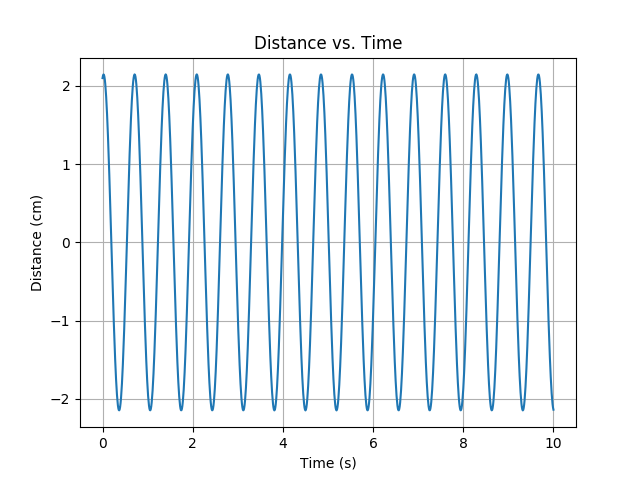
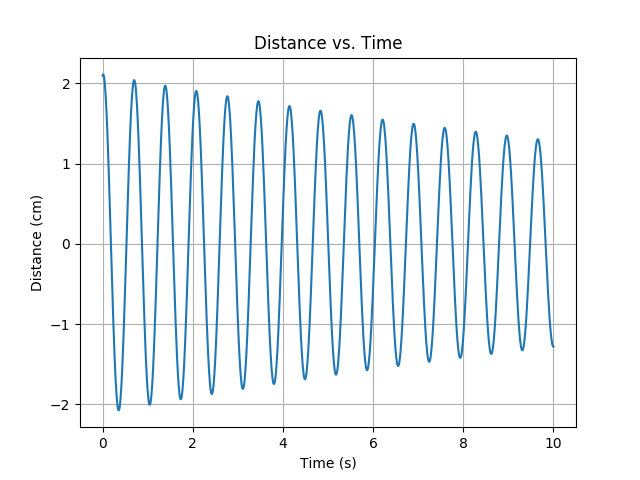
Changed Main.py file to PyLab1.py and added Velocity, Distance, and Energy vs. Time graphs for the damped system.

Changed region(s): [[0.0625, 0.1562, 0.9062, 0.8438]]

diff --git a/PyLab1.py b/PyLab1.py
@@ -1,0 +1,188 @@
+import numpy as np
+import pylab
+from matplotlib import pyplot as plt
+
+# dist_path = 'position_osc.txt'
+#
+# time_list = []
+# dist_list = []
+#
+# dist_file = open(dist_path, "r")
+# i = 0
+# for line in dist_file:
+#     if i > 1:
+#         time_list.append(float(line[:5]))
+#         dist_list.append(float(line[6:12]))
+#     i += 1
+
+
+# fig, ax = plt.subplots()
+# ax.plot(time_list, dist_list)
+#
+# ax.set(xlabel='Time (s)', ylabel='Distance (cm)',
+#        title='Distance vs. Time')
+# ax.grid()
+#
+# fig.savefig("test.png")
+# # plt.show()
+
+
+# WITH DAMPING
+
+m = 0.2
+k = 16.63
+time_generated = []
+distance_generated = []
+velocity_generated = []
+delta_t_too_big = 0.01
+delta_t = 0.01
+curr_time = 0
+y_1 = 2.0985
+v_1 = 3.2078
+period = 10.0
+omega_0 = 9.1193
+energy_generated = []
+E = 0
+coef_damping = 0.1
+
+
+
+def damped_system_distance_vs_time():
+    m = 0.2
+    k = 16.63
+    time_generated = []
+    distance_generated = []
+    velocity_generated = []
+    delta_t_too_big = 0.01
+    delta_t = 0.01
+    curr_time = 0
+    y_1 = 2.0985
+    v_1 = 3.2078
+    period = 10.0
+    omega_0 = 9.1193
+    energy_generated = []
+    E = 0
+    coef_damping = 0.1
+    curr_time = 0
+
+    while curr_time < 10:
+        time_generated.append(curr_time)
+        distance_generated.append(y_1)
+        velocity_generated.append(v_1)
+        v_1 = v_1 + delta_t * (-1 * (omega_0 ** 2) * y_1 - coef_damping * v_1)
+        y_1 = y_1 + delta_t * v_1
+        E = (m * v_1 * v_1 + k * y_1 * y_1) / 2
+        energy_generated.append(E)
+        curr_time += delta_t
+
+    fig, ax = plt.subplots()
+    ax.plot(time_generated, distance_generated)
+    # ax.plot(time_generated, velocity_generated)
+    # ax.plot(distance_generated, velocity_generated)
+
+    # ax.plot(distance_generated, energy_generated)
+    # ax.plot(time_generated, energy_generated)
+    ax.set(xlabel='Time (s)', ylabel='Distance (cm)',
+           title='Distance vs. Time')
+    ax.grid()
+
+    fig.savefig("DistanceVsTime_Damped.png")
+
+    plt.show()
+
+def damped_system_velocity_vs_time():
+    m = 0.2
+    k = 16.63
+    time_generated = []
+    distance_generated = []
+    velocity_generated = []
+    delta_t_too_big = 0.01
+    delta_t = 0.01
+    curr_time = 0
+    y_1 = 2.0985
+    v_1 = 3.2078
+    period = 10.0
+    omega_0 = 9.1193
+    energy_generated = []
+    E = 0
+    coef_damping = 0.1
+    curr_time = 0
+
+    while curr_time < 10:
+        time_generated.append(curr_time)
+        distance_generated.append(y_1)
+        velocity_generated.append(v_1)
+        v_1 = v_1 + delta_t * (-1 * (omega_0 ** 2) * y_1 - coef_damping * v_1)
+        y_1 = y_1 + delta_t * v_1
+        E = (m * v_1 * v_1 + k * y_1 * y_1) / 2
+        energy_generated.append(E)
+        curr_time += delta_t
+
+    fig, ax = plt.subplots()
+    ax.plot(time_generated, velocity_generated)
+    # ax.plot(time_generated, velocity_generated)
+    # ax.plot(distance_generated, velocity_generated)
+
+    # ax.plot(distance_generated, energy_generated)
+    # ax.plot(time_generated, energy_generated)
+    ax.set(xlabel='Time (s)', ylabel='Velocity (cm)',
+           title='Velocity vs. Time')
+    ax.grid()
+
+    fig.savefig("VelocityVsTime_Damped.png")
+
+    plt.show()
+
+def damped_system_energy_vs_time():
+    m = 0.2
+    k = 16.63
+    time_generated = []
+    distance_generated = []
+    velocity_generated = []
+    delta_t_too_big = 0.01
+    delta_t = 0.01
+    curr_time = 0
+    y_1 = 2.0985
+    v_1 = 3.2078
+    period = 10.0
+    omega_0 = 9.1193
+    energy_generated = []
+    E = 0
+    coef_damping = 0.1
+    curr_time = 0
+
+    while curr_time < 10:
+        time_generated.append(curr_time)
+        distance_generated.append(y_1)
+        velocity_generated.append(v_1)
+        v_1 = v_1 + delta_t * (-1 * (omega_0 ** 2) * y_1 - coef_damping * v_1)
+        y_1 = y_1 + delta_t * v_1
+        E = (m * v_1 * v_1 + k * y_1 * y_1) / 2
+        energy_generated.append(E)
+        curr_time += delta_t
+
+    fig, ax = plt.subplots()
+    ax.plot(time_generated, energy_generated)
+    # ax.plot(time_generated, velocity_generated)
+    # ax.plot(distance_generated, velocity_generated)
+
+    # ax.plot(distance_generated, energy_generated)
+    # ax.plot(time_generated, energy_generated)
+    ax.set(xlabel='Time (s)', ylabel='Energy (J)',
+           title='Energy vs. Time')
+    ax.grid()
+
+    fig.savefig("EnergyVsTime_Damped.png")
+
+    plt.show()
+
+
+# print(time_generated)
+# print(distance_generated)
+
+
+if __name__ == '__main__':
+    import doctest
+    doctest.testmod()
+    damped_system_energy_vs_time()
+
